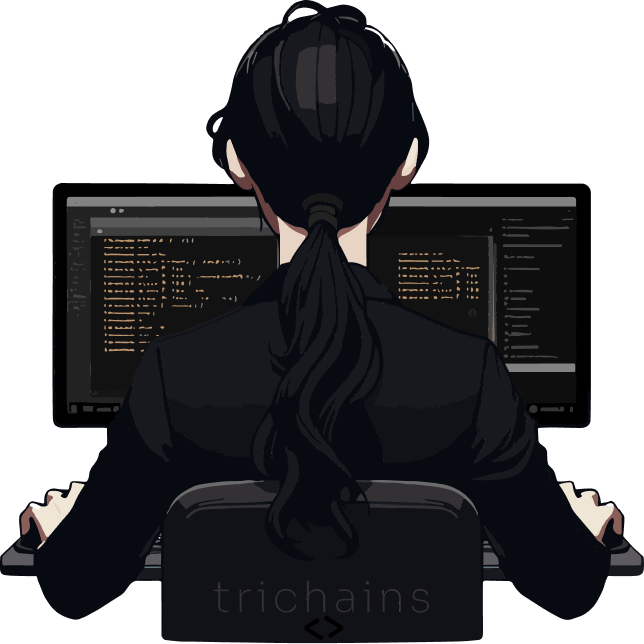
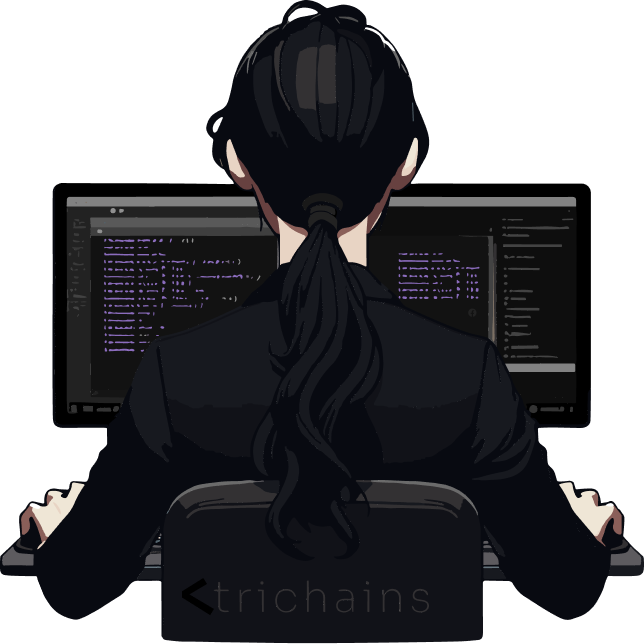
reform: accents

Changed region(s): [[0.1553, 0.3727, 0.3416, 0.559], [0.6211, 0.4037, 0.7453, 0.4658]]

diff --git a/styles/globals.css b/styles/globals.css
@@ -8,14 +8,14 @@
 .swiper-horizontal > .swiper-pagination-bullets .swiper-pagination-bullet,
 .swiper-pagination-horizontal.swiper-pagination-bullets
   .swiper-pagination-bullet {
-  background-color: #dd7711;
+  background-color: #60f;
 }
 
 .swiper-button-next:after,
 .swiper-button-prev:after,
 .swiper-button-next:after,
 .swiper-rtl .swiper-button-prev:after {
-  color: #dd7711;
+  color: #60f;
 }
 
 @layer base {

diff --git a/pages/_app.js b/pages/_app.js
@@ -24,7 +24,7 @@ function MyApp({ Component, pageProps }) {
         />
         <meta
           property="og:image"
-          content="https://i.ibb.co/cc8VLwK/trichains.png"
+          content="https://i.ibb.co/Y80DfL1/trichains.png"
         />
         <meta property="og:image:width" content="1200" />
         <meta property="og:image:height" content="630" />

diff --git a/components/ParticlesContainer.js b/components/ParticlesContainer.js
@@ -31,9 +31,9 @@ const ParticlesContainer = () => {
           }
         },
         particles: {
-          color: '#e68e2e',
+          color: '#62e',
           links: {
-            color: '#f5d393',
+            color: '#b9f',
             distance: 150,
             enable: true,
             opacity: 0.5,

diff --git a/tailwind.config.js b/tailwind.config.js
@@ -24,7 +24,7 @@ module.exports = {
       colors: {
         primary: '#131424',
         secondary: '#393A47',
-        accent: '#DD7711'
+        accent: '#60F'
       },
       backgroundImage: {
         explosion: 'url("/bg-explosion.webp")',
